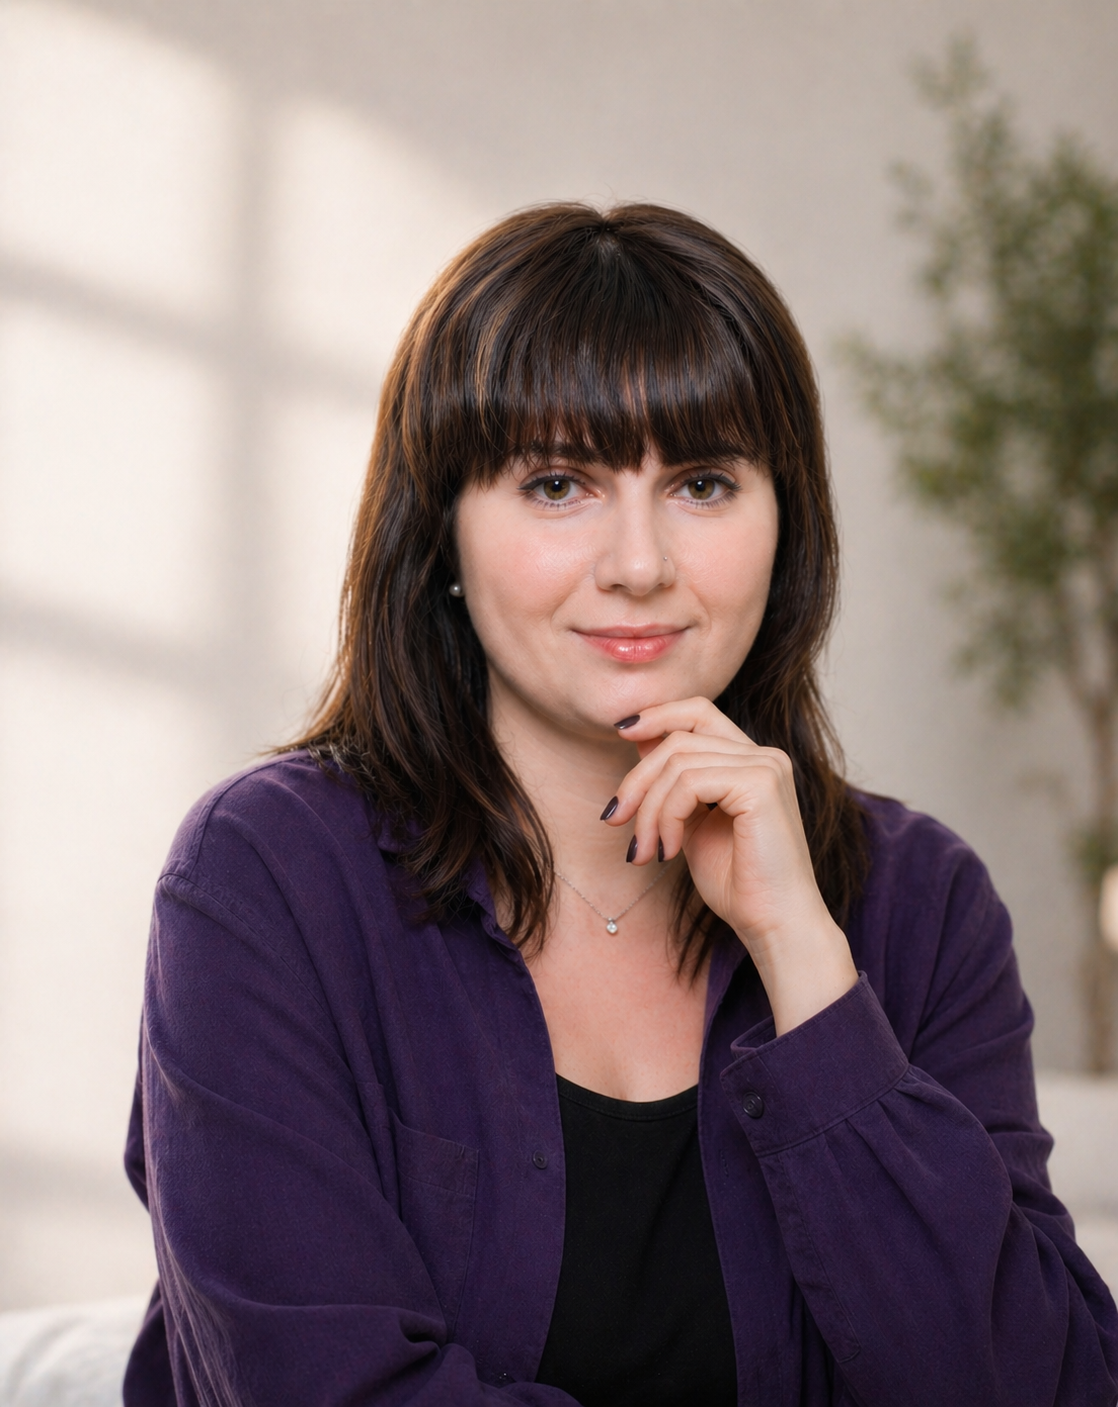
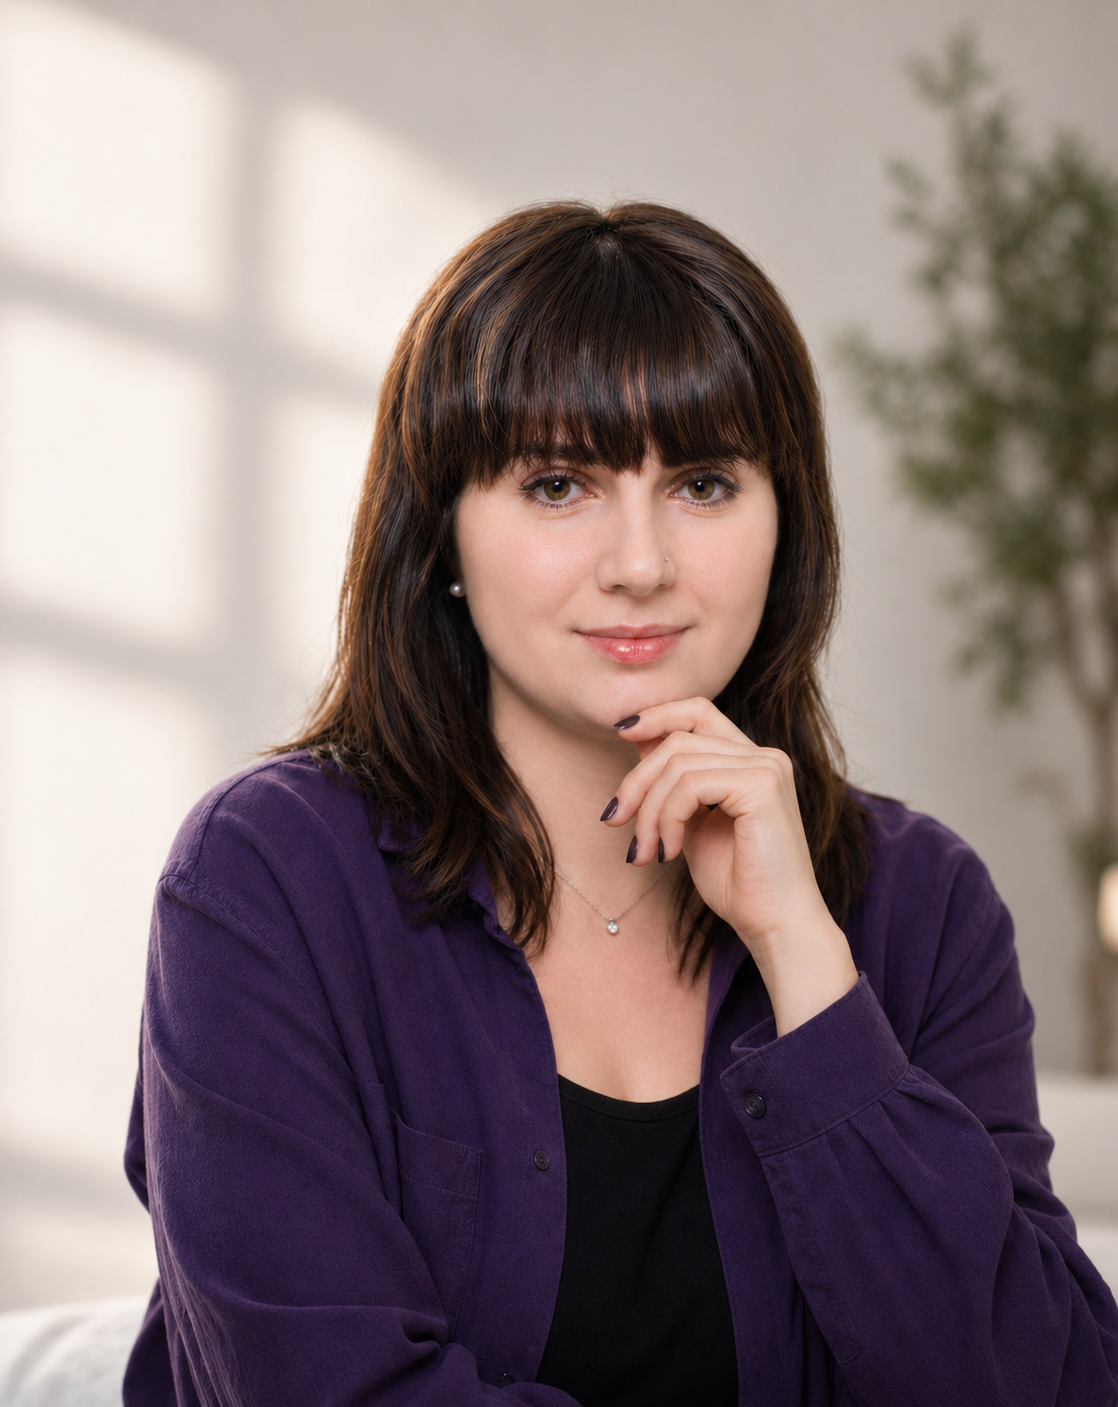
Purple palette — editorial color system

diff --git a/styles.css b/styles.css
@@ -213,3 +213,103 @@ section:nth-of-type(3n+2)::after{content:none!important;display:none!important}
   .site-header nav a,.floating-dock,.floating-dock *,.motion-enabled .recognition-layer .situation,.motion-enabled .manifest .manifest-part,.motion-enabled .manifest .manifest-arrow,.motion-enabled .steps article,.motion-enabled .principle,.motion-enabled .exam-inner>div,.motion-enabled .about-grid .about-copy,.motion-enabled .price-grid article,.mini-test,.test-options button,.to-top{transition:none!important}
   .motion-enabled .recognition-layer .situation,.motion-enabled .manifest .manifest-part,.motion-enabled .manifest .manifest-arrow,.motion-enabled .steps article,.motion-enabled .principle,.motion-enabled .exam-inner>div,.motion-enabled .about-grid .about-copy,.motion-enabled .price-grid article{opacity:1!important;transform:none!important;filter:none!important;clip-path:none!important}
 }
+
+/* ===== PALETTE EXPERIMENT ===== */
+:root{
+  --ink:#2A292B;
+  --ink2:#5B3A78;
+  --paper:#F4F0E8;
+  --paper2:#F4F0E8;
+  --text:#2A292B;
+  --muted:#746E66;
+  --line:rgba(42,41,43,.17);
+  --iris:#7060A8;
+}
+
+/* Static atmospheric rhythm: five unequal touches after the clean hero. */
+.ambient,body::before,body::after{display:none}
+html{overflow-x:clip}
+.subjects,.method,.try-it,.cases,.format{overflow:visible}
+section.subjects::before,section.method::before,section.try-it::before,section.cases::before,section.format::before{
+  content:""!important;
+  display:block!important;
+  position:absolute;
+  pointer-events:none;
+  border:0;
+  border-radius:0;
+  filter:none;
+  opacity:1;
+  animation:none;
+  left:50%;
+  right:auto;
+  transform:translateX(-50%);
+}
+section.subjects::before{
+  width:160vw;height:1500px;top:-390px;
+  background:
+    radial-gradient(ellipse 54% 54% at 14% 48%,rgba(91,58,120,.34) 0%,rgba(91,58,120,.20) 25%,rgba(91,58,120,.085) 48%,rgba(91,58,120,.024) 66%,rgba(91,58,120,0) 80%),
+    radial-gradient(ellipse 42% 70% at 10% 53%,rgba(91,58,120,.11) 0%,rgba(91,58,120,0) 74%);
+  -webkit-mask-image:linear-gradient(to bottom,transparent 0%,#000 18%,#000 76%,transparent 100%);
+  mask-image:linear-gradient(to bottom,transparent 0%,#000 18%,#000 76%,transparent 100%);
+}
+section.method::before{
+  width:178vw;height:1250px;top:-430px;
+  background:
+    linear-gradient(116deg,rgba(91,58,120,0) 13%,rgba(91,58,120,.023) 25%,rgba(91,58,120,.063) 37%,rgba(91,58,120,.033) 50%,rgba(91,58,120,0) 68%),
+    radial-gradient(ellipse 66% 38% at 43% 9%,rgba(91,58,120,.080) 0%,rgba(91,58,120,.033) 43%,rgba(91,58,120,0) 76%);
+  -webkit-mask-image:linear-gradient(to bottom,transparent 0%,#000 24%,#000 67%,transparent 100%);
+  mask-image:linear-gradient(to bottom,transparent 0%,#000 24%,#000 67%,transparent 100%);
+}
+section.try-it::before{
+  width:172vw;height:1320px;top:-330px;
+  background:
+    radial-gradient(ellipse 45% 52% at 91% 37%,rgba(91,58,120,.28) 0%,rgba(91,58,120,.15) 27%,rgba(91,58,120,.055) 52%,rgba(91,58,120,.014) 69%,rgba(91,58,120,0) 83%),
+    radial-gradient(ellipse 31% 72% at 96% 48%,rgba(91,58,120,.09) 0%,rgba(91,58,120,0) 77%);
+  -webkit-mask-image:linear-gradient(to bottom,transparent 0%,#000 19%,#000 76%,transparent 100%);
+  mask-image:linear-gradient(to bottom,transparent 0%,#000 19%,#000 76%,transparent 100%);
+}
+section.cases::before{
+  width:160vw;height:1580px;top:-410px;
+  opacity:.83;
+  background:
+    radial-gradient(ellipse 55% 56% at 86% 48%,rgba(112,96,168,.27) 0%,rgba(112,96,168,.156) 27%,rgba(112,96,168,.063) 49%,rgba(112,96,168,.017) 67%,rgba(112,96,168,0) 81%),
+    radial-gradient(ellipse 42% 72% at 91% 54%,rgba(91,58,120,.078) 0%,rgba(91,58,120,0) 75%);
+  -webkit-mask-image:linear-gradient(to bottom,transparent 0%,#000 20%,#000 78%,transparent 100%);
+  mask-image:linear-gradient(to bottom,transparent 0%,#000 20%,#000 78%,transparent 100%);
+}
+section.format::before{
+  width:176vw;height:1420px;top:-330px;
+  background:
+    radial-gradient(ellipse 52% 58% at 7% 48%,rgba(91,58,120,.255) 0%,rgba(91,58,120,.145) 28%,rgba(91,58,120,.056) 51%,rgba(91,58,120,.014) 69%,rgba(91,58,120,0) 82%),
+    radial-gradient(ellipse 38% 68% at 3% 55%,rgba(91,58,120,.075) 0%,rgba(91,58,120,0) 76%);
+  -webkit-mask-image:linear-gradient(to bottom,transparent 0%,#000 20%,#000 80%,transparent 100%);
+  mask-image:linear-gradient(to bottom,transparent 0%,#000 20%,#000 80%,transparent 100%);
+}
+section.cases::after{content:""!important;display:block!important;position:absolute;left:0;top:250px;bottom:70px;width:1px;height:auto;background:var(--line);opacity:.72}
+
+.hero-quote,.portrait-quote{color:var(--ink)}
+.manifest-glow{background:rgba(112,96,168,.10)}
+.situation{border-left-color:rgba(91,58,120,.30);box-shadow:0 12px 35px rgba(42,41,43,.035)}
+.try-it{background:var(--paper)}
+.mini-test{box-shadow:0 24px 60px rgba(42,41,43,.055)}
+.test-options button:hover,.test-options button:focus-visible{background:rgba(91,58,120,.07);border-color:rgba(91,58,120,.42)}
+.test-options button.is-correct{background:rgba(91,58,120,.09);border-color:rgba(91,58,120,.55)}
+.test-options button.is-wrong{background:rgba(42,41,43,.035);border-color:rgba(42,41,43,.24)}
+.test-feedback.success{border-left-color:rgba(91,58,120,.48)}
+.test-feedback .formula{border-top-color:rgba(42,41,43,.12)}
+.to-top{border-color:rgba(42,41,43,.24);box-shadow:0 10px 30px rgba(42,41,43,.10)}
+.floating-dock{border-color:rgba(42,41,43,.20);box-shadow:0 18px 55px rgba(42,41,43,.18)}
+.floating-dock nav a:hover,.floating-dock nav a:focus-visible{background:rgba(91,58,120,.08)}
+.exam{background:#2A292B;overflow:clip}.exam p{color:#E5E0D9}.exam h2,.exam .eyebrow{color:#F4F0E8}
+.contact{background:#2A292B;color:#E5E0D9}.contact h2{color:#F4F0E8}.contact .eyebrow,.contact small{color:rgba(244,240,232,.72)}
+footer{background:#222124;color:rgba(244,240,232,.68)}
+
+@media(max-width:600px){
+  .hero,.hero-copy,.hero-photo{min-width:0}.hero-photo{width:100%;max-width:100%}.hero-photo figcaption{max-width:calc(100% - 16px)}
+  section.subjects::before{width:190vw;height:1120px;top:-150px;opacity:.78;background:radial-gradient(ellipse 56% 58% at 12% 50%,rgba(91,58,120,.32) 0%,rgba(91,58,120,.14) 38%,rgba(91,58,120,.034) 62%,rgba(91,58,120,0) 82%)}
+  section.method::before{width:205vw;height:980px;top:-260px;opacity:.78;background:linear-gradient(128deg,rgba(91,58,120,0) 20%,rgba(91,58,120,.022) 36%,rgba(91,58,120,.04) 48%,rgba(91,58,120,.016) 61%,rgba(91,58,120,0) 76%)}
+  section.try-it::before{width:198vw;height:1080px;top:-210px;opacity:.78;background:radial-gradient(ellipse 50% 55% at 87% 40%,rgba(91,58,120,.34) 0%,rgba(91,58,120,.13) 42%,rgba(91,58,120,.03) 65%,rgba(91,58,120,0) 84%)}
+  section.cases::before{width:195vw;height:1180px;top:-110px;opacity:.56;background:radial-gradient(ellipse 54% 58% at 87% 50%,rgba(112,96,168,.28) 0%,rgba(112,96,168,.105) 40%,rgba(112,96,168,.025) 64%,rgba(112,96,168,0) 84%)}
+  section.format::before{width:210vw;height:1080px;top:-120px;opacity:.65;background:radial-gradient(ellipse 52% 60% at 8% 50%,rgba(91,58,120,.26) 0%,rgba(91,58,120,.10) 42%,rgba(91,58,120,.023) 66%,rgba(91,58,120,0) 85%)}
+  section.cases::after{display:none!important}
+}

diff --git a/index.html b/index.html
@@ -2,7 +2,7 @@
 <div class="ambient ambient-a"></div><div class="ambient ambient-b"></div>
 <header class="site-header"><a class="brand" href="#top"><strong>Надежда Волгина</strong><span>русский язык · литература</span></a><nav><a href="#lessons">О занятиях</a><a href="#about">Обо мне</a><a href="#format">Формат</a><a href="#faq">Вопросы</a></nav><a class="button small" href="#contact">Обсудить занятия</a></header>
 <main id="top">
-<section class="hero wrap"><div class="hero-copy"><p class="eyebrow">5–11 классы · школьная программа · ОГЭ · ЕГЭ</p><h1>Русский язык<br><em>без паники</em><br><span>и стыда за ошибки</span></h1><p class="lead">Индивидуальные занятия по русскому языку и литературе для школьников 5–11 классов. Разбираемся, что именно не получается и почему, а не просто решаем ещё двадцать похожих заданий.</p><div class="hero-actions"><a class="button" href="#contact">Обсудить занятия</a></div></div><figure class="hero-photo"><img src="assets/about.png" alt="Надежда Волгина"><figcaption>Ошибки — часть работы,<br>а не повод чувствовать<br>себя глупо.</figcaption></figure></section>
+<section class="hero wrap"><div class="hero-copy"><p class="eyebrow">5–11 классы · школьная программа · ОГЭ · ЕГЭ</p><h1>Русский язык<br><em>без паники</em><br><span>и стыда за ошибки</span></h1><p class="lead">Индивидуальные занятия по русскому языку и литературе для школьников 5–11 классов. Разбираемся, что именно не получается и почему, а не просто решаем ещё двадцать похожих заданий.</p><div class="hero-actions"><a class="button" href="#contact">Обсудить занятия</a></div></div><figure class="hero-photo"><img src="assets/about.png?v=d4e4fa8c" alt="Надежда Волгина"><figcaption>Ошибки — часть работы,<br>а не повод чувствовать<br>себя глупо.</figcaption></figure></section>
 <section class="section wrap recognition" id="lessons"><div class="section-title"><p class="eyebrow">С чего начинаем</p><h2>Когда учил,<br>а всё равно <span class="nowrap">не получается</span></h2></div><div class="recognition-layer"><p class="recognition-label">Знакомые ситуации</p><div class="situation-cloud"><p class="situation s1">Правило выучено, а ошибки повторяются.</p><p class="situation s2">Мысли есть. Собрать их в сочинение не получается.</p><p class="situation s3">Произведение прочитано. С анализом возникают сложности.</p><p class="situation s4">До экзамена остаётся всё меньше времени, и обнаруживаются пробелы.</p><p class="situation s5">Тему уже объясняли несколько раз. Понимания всё ещё нет.</p></div></div><p class="wide-note">Не всегда нужно начинать всё сначала. Сначала выясняем, <strong>в каком месте возникла трудность.</strong></p></section>
 <section class="section subjects"><div class="wrap subject-grid"><article><p class="eyebrow">Русский язык</p><h2>Правило должно<br>работать, а не храниться<br>в памяти само по себе</h2><p>Правило нужно понять, уметь воспроизвести своими словами и применить. Разбираем школьную программу, орфографию и пунктуацию, сочинения и изложения, готовимся к ВПР, итоговому собеседованию, ОГЭ и ЕГЭ.</p><p>Если ошибка повторяется, ищем её причину: что именно ученик не различает или не замечает, какое правило применяет неверно.</p></article><article class="literature"><p class="eyebrow">Литература</p><h2>Не нужно угадывать<br>мнение учителя</h2><p>Я принимаю любое аргументированное прочтение произведения, если ученик умеет подтвердить свою позицию текстом.</p><p>Необязательно считать Татьяну «милым идеалом», а Катерину — «лучом света в тёмном царстве». Можно видеть героев иначе. Важно понимать свою позицию и уметь доказать её с опорой на текст.</p></article></div></section>
 <section class="manifest"><div class="manifest-glow"></div><p>Стало понятно <span>→</span> стало получаться <span>→</span> появилась уверенность</p></section>
